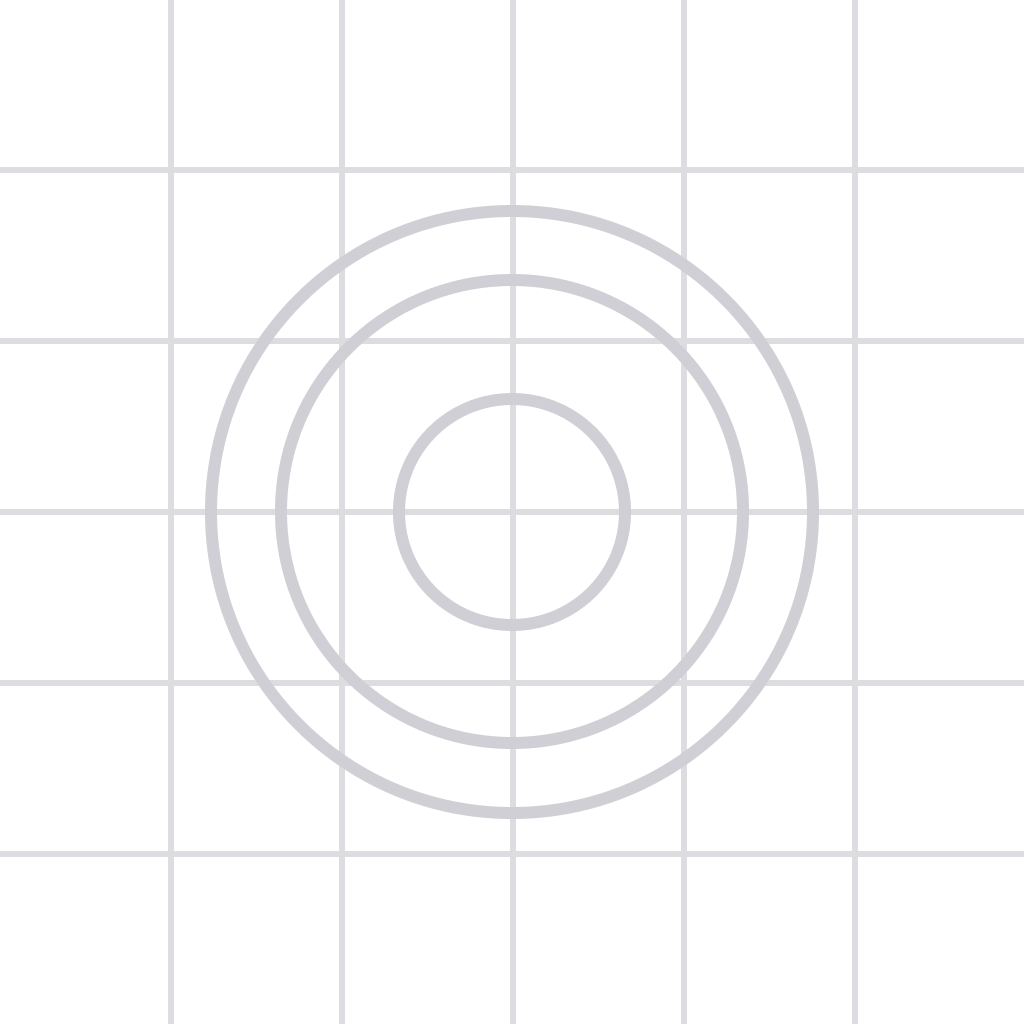
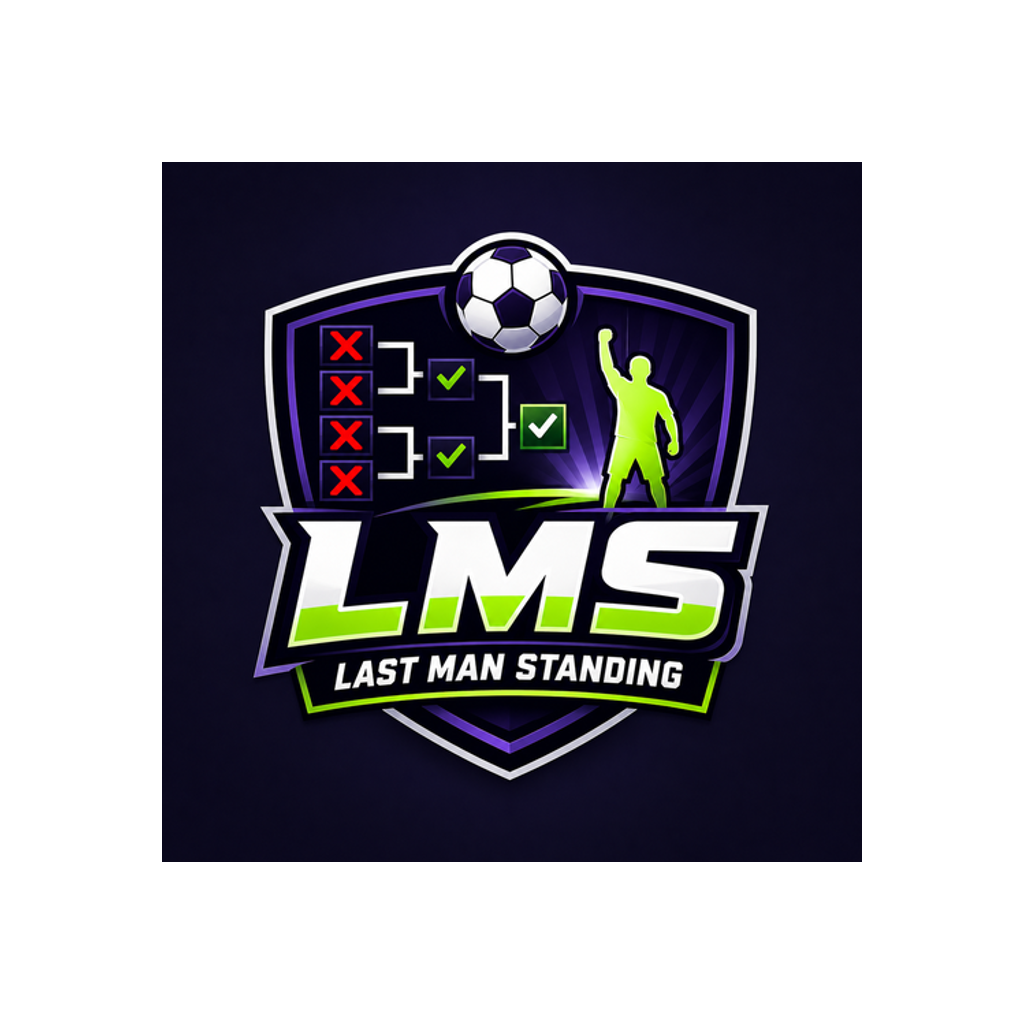
Update Stripe integration and enhance competition management features

diff --git a/src/screens/ClubAdminScreen.tsx b/src/screens/ClubAdminScreen.tsx
@@ -3,8 +3,8 @@ import Slider from '@react-native-community/slider';
 import { useMutation, useQuery, useQueryClient } from '@tanstack/react-query';
 import { useRouter } from 'expo-router';
 import * as ImagePicker from 'expo-image-picker';
-import { useEffect, useMemo, useState } from 'react';
-import { Image, Linking, Modal, RefreshControl, ScrollView, Share, StyleSheet, Text, TextInput, TouchableOpacity, View } from 'react-native';
+import { useEffect, useMemo, useRef, useState } from 'react';
+import { AppState, Image, Linking, Modal, RefreshControl, ScrollView, Share, StyleSheet, Text, TextInput, TouchableOpacity, View } from 'react-native';
 import { SafeAreaView } from 'react-native-safe-area-context';
 import { api } from '../api/client';
 import type { Club, Competition, Participant } from '../types';
@@ -123,6 +123,7 @@ export default function ClubAdminScreen() {
   const [mobileActionsOpen, setMobileActionsOpen] = useState(false);
   const [checklistOpen, setChecklistOpen] = useState(false);
   const [stripeOpen, setStripeOpen] = useState(false);
+  const stripeOnboardingPendingRef = useRef(false);
   const [showCompetitionModal, setShowCompetitionModal] = useState(false);
   const [showStartDatePicker, setShowStartDatePicker] = useState(false);
   const [confirmDialog, setConfirmDialog] = useState<ConfirmDialogState>(null);
@@ -142,6 +143,17 @@ export default function ClubAdminScreen() {
     queryKey: ['club-admin', 'stripe-connect-status'],
     queryFn: async () => (await api.get<StripeConnectStatus>('/club-admin/my-club/stripe/connect/status')).data,
   });
+
+  useEffect(() => {
+    const subscription = AppState.addEventListener('change', (state) => {
+      if (state === 'active' && stripeOnboardingPendingRef.current) {
+        stripeOnboardingPendingRef.current = false;
+        void stripeStatusQuery.refetch();
+        setOpStatus({ tone: 'info', message: 'Stripe status refreshed. If setup still shows incomplete, continue onboarding in Stripe and complete all required business details.' });
+      }
+    });
+    return () => subscription.remove();
+  }, [stripeStatusQuery.refetch]);
 
   const adminSearchQueryResult = useQuery({
     queryKey: ['club-admin', 'admin-search', adminSearchQuery],
@@ -387,10 +399,16 @@ export default function ClubAdminScreen() {
 
 
   const startStripeConnectMutation = useMutation({
-    mutationFn: async () => (await api.post<{ url?: string }>('/club-admin/my-club/stripe/connect/start')).data,
+    mutationFn: async () => (await api.post<{ onboardingUrl?: string; url?: string }>('/club-admin/my-club/stripe/connect/start')).data,
     onSuccess: async (data) => {
-      if (data?.url) await Linking.openURL(data.url);
-      await stripeStatusQuery.refetch();
+      const onboardingUrl = data?.onboardingUrl ?? data?.url;
+      if (!onboardingUrl) {
+        setOpStatus({ tone: 'error', message: 'Stripe onboarding URL was not returned.' });
+        return;
+      }
+      stripeOnboardingPendingRef.current = true;
+      setOpStatus({ tone: 'info', message: 'Complete the Stripe onboarding steps in the browser, then return to the app. Status will refresh automatically.' });
+      await Linking.openURL(onboardingUrl);
     },
     onError: (e: any) => setOpStatus({ tone: 'error', message: getApiMessage(e, 'Failed to start Stripe onboarding.') }),
   });
@@ -563,11 +581,13 @@ export default function ClubAdminScreen() {
                 </TouchableOpacity>
               </View>
               <View style={styles.stripeInfoBox}><Text style={styles.stripeInfoLabel}>Account</Text><Text style={styles.stripeInfoValue}>{stripeStatus?.stripeAccountId ?? 'Not connected'}</Text></View>
+              {!stripeReady ? <View style={styles.stripeSetupNote}><Text style={styles.stripeSetupNoteText}>Setup is not complete until Stripe shows onboarding complete, charges on, and payouts on. Tap Continue onboarding and finish the required Stripe business details.</Text></View> : null}
               <View style={styles.stripeStatusRow}>
                 <View style={[styles.stripeChip, stripeStatus?.onboardingComplete ? styles.stripeChipGood : styles.stripeChipWarn]}><Text style={styles.stripeChipText}>Onboarding: {stripeStatus?.onboardingComplete ? 'Complete' : 'Incomplete'}</Text></View>
                 <View style={[styles.stripeChip, stripeStatus?.chargesEnabled ? styles.stripeChipGood : styles.stripeChipWarn]}><Text style={styles.stripeChipText}>Charges: {stripeStatus?.chargesEnabled ? 'On' : 'Off'}</Text></View>
                 <View style={[styles.stripeChip, stripeStatus?.payoutsEnabled ? styles.stripeChipGood : styles.stripeChipWarn]}><Text style={styles.stripeChipText}>Payouts: {stripeStatus?.payoutsEnabled ? 'On' : 'Off'}</Text></View>
               </View>
+              <View style={styles.stripeFeeNote}><Text style={styles.stripeFeeNoteText}>Stripe shows the exact processing fee after a payment succeeds, under the payment's balance transaction. The app shows an estimate before payment so entrants know the expected charge/net amount upfront.</Text></View>
             </View>
           ) : null}
         </Card>
@@ -1229,11 +1249,15 @@ const styles = StyleSheet.create({
   stripeInfoBox: { borderWidth: 1, borderColor: '#334155', backgroundColor: '#0b1220', borderRadius: 10, paddingHorizontal: 10, paddingVertical: 8, marginBottom: 8 },
   stripeInfoLabel: { color: '#94a3b8', fontSize: 10, textTransform: 'uppercase', letterSpacing: 0.7 },
   stripeInfoValue: { color: '#e2e8f0', fontSize: 12, fontWeight: '700', marginTop: 3 },
+  stripeSetupNote: { borderWidth: 1, borderColor: '#f59e0b55', backgroundColor: '#f59e0b1a', borderRadius: 10, paddingHorizontal: 10, paddingVertical: 8, marginBottom: 8 },
+  stripeSetupNoteText: { color: '#fde68a', fontSize: 11, fontWeight: '800', lineHeight: 16 },
   stripeStatusRow: { flexDirection: 'row', flexWrap: 'wrap', gap: 6 },
   stripeChip: { borderWidth: 1, borderRadius: 999, paddingHorizontal: 9, paddingVertical: 5 },
   stripeChipGood: { borderColor: '#22c55e55', backgroundColor: '#22c55e22' },
   stripeChipWarn: { borderColor: '#f59e0b55', backgroundColor: '#f59e0b22' },
   stripeChipText: { color: '#e2e8f0', fontSize: 11, fontWeight: '700' },
+  stripeFeeNote: { borderWidth: 1, borderColor: '#38bdf855', backgroundColor: '#0ea5e91a', borderRadius: 10, paddingHorizontal: 10, paddingVertical: 8, marginTop: 8 },
+  stripeFeeNoteText: { color: '#bae6fd', fontSize: 11, fontWeight: '700', lineHeight: 16 },
   webCardHeader: { flexDirection: 'row', alignItems: 'flex-start', justifyContent: 'space-between', gap: 10 },
   webSectionTitle: { color: '#e5e7eb', fontSize: 12, fontWeight: '900', textTransform: 'uppercase', letterSpacing: 1.5 },
   webSectionSub: { color: '#94a3b8', fontSize: 12, lineHeight: 18, marginTop: 5 },

diff --git a/src/screens/CompetitionDetailScreen.tsx b/src/screens/CompetitionDetailScreen.tsx
@@ -230,6 +230,8 @@ export default function CompetitionDetailScreen() {
       }
       queryClient.invalidateQueries({ queryKey: ['competition', id, 'my-status', selectedEntryId] });
       queryClient.invalidateQueries({ queryKey: ['competition', id, 'my-pick'] });
+      queryClient.invalidateQueries({ queryKey: ['competitions-my-details'] });
+      queryClient.invalidateQueries({ queryKey: ['competitions-upcoming'] });
     },
     onError: (_error, _vars, context) => {
       setOptimisticPick(null);
@@ -1113,6 +1115,12 @@ export default function CompetitionDetailScreen() {
         urlScheme: 'lastmanstanding',
       });
 
+      const googlePaySupported = await stripe.isPlatformPaySupported({
+        googlePay: {
+          testEnv: publishableKey.startsWith('pk_test'),
+        },
+      });
+
       const initResult = await stripe.initPaymentSheet({
         merchantDisplayName: 'Last Man Standing',
         paymentIntentClientSecret: intent.clientSecret,
@@ -1159,12 +1167,16 @@ export default function CompetitionDetailScreen() {
           currencyCode: 'EUR',
           testEnv: publishableKey.startsWith('pk_test'),
         },
-        paymentMethodOrder: ['card', 'revolut_pay', 'klarna'],
+        paymentMethodOrder: ['google_pay', 'card', 'revolut_pay', 'klarna'],
         allowsDelayedPaymentMethods: false,
       });
 
       if (initResult.error) {
         throw new Error(initResult.error.message ?? 'Could not initialise the payment form.');
+      }
+
+      if (!googlePaySupported) {
+        setPaymentActionSuccess('Google Pay is not available on this device/build, so Stripe will show the other payment options.');
       }
 
       const paymentResult = await stripe.presentPaymentSheet();

diff --git a/src/screens/CompetitionsScreen.tsx b/src/screens/CompetitionsScreen.tsx
@@ -251,8 +251,8 @@ export default function CompetitionsScreen() {
     return sortCompetitions(rows, (row) => row.competition as CompetitionLike);
   }, [myRows, search, statusFilter, feeFilter, sortBy, startWindow]);
 
-  const mineNeedsAction = filteredMine.filter((row) => row.paymentState === 'AWAITING_PAYMENT' || (row.myStatus === 'ACTIVE' && row.competition.status === 'UPCOMING'));
-  const minePickDue = filteredMine.filter((row) => row.myStatus === 'ACTIVE' && row.paymentState !== 'AWAITING_PAYMENT' && row.competition.status === 'UPCOMING');
+  const mineNeedsAction = filteredMine.filter((row) => row.paymentState === 'AWAITING_PAYMENT' || row.pickRequired === true);
+  const minePickDue = filteredMine.filter((row) => row.pickRequired === true);
   const mineAwaitingPayment = filteredMine.filter((row) => row.paymentState === 'AWAITING_PAYMENT');
   const mineActive = filteredMine.filter((row) => row.myStatus === 'ACTIVE' && row.paymentState !== 'AWAITING_PAYMENT' && row.competition.status === 'ACTIVE');
   const mineUpcoming = filteredMine.filter((row) => row.myStatus === 'ACTIVE' && row.paymentState !== 'AWAITING_PAYMENT' && row.competition.status === 'UPCOMING');
@@ -296,13 +296,13 @@ export default function CompetitionsScreen() {
           priority: 40,
         };
       }
-      if (row.myStatus === 'ACTIVE' && comp.status === 'UPCOMING') {
+      if (row.pickRequired === true) {
         return {
           id: `pick-${baseId}`,
           tone: 'warn' as const,
           label: 'Pick due',
           title: `Pick needed for ${comp.name}`,
-          detail: `Choose your team before the first lock${entrySuffix}.`,
+          detail: `Choose your team before the next lock${entrySuffix}.`,
           competitionId: comp.id,
           priority: 20,
         };

diff --git a/src/screens/MyCompetitionsScreen.tsx b/src/screens/MyCompetitionsScreen.tsx
@@ -11,7 +11,7 @@ import { colors, spacing } from '../theme/tokens';
 type MineFilter = 'ALL' | 'NEEDS_ACTION' | 'UPCOMING' | 'ACTIVE' | 'ELIMINATED' | 'FINISHED';
 
 function needsAction(mc: MyCompetition): boolean {
-  return mc.paymentState === 'AWAITING_PAYMENT' || (mc.competition.status === 'UPCOMING' && mc.myStatus === 'ACTIVE');
+  return mc.paymentState === 'AWAITING_PAYMENT' || mc.pickRequired === true;
 }
 
 function toneForStatus(status: string) {

diff --git a/app/_layout.tsx b/app/_layout.tsx
@@ -26,6 +26,7 @@ export default function RootLayout() {
         <Stack.Screen name="register-club" options={{ title: 'Create Club' }} />
         <Stack.Screen name="faq" options={{ title: 'FAQ' }} />
         <Stack.Screen name="contact" options={{ title: 'Contact Us' }} />
+        <Stack.Screen name="stripe-connect/return" options={{ title: 'Stripe Connect' }} />
         <Stack.Screen name="(tabs)" options={{ headerShown: false }} />
         <Stack.Screen name="competitions/[id]" options={{ title: 'Competition' }} />
         <Stack.Screen name="competitions/[id]/pick" options={{ title: 'Make Pick' }} />

diff --git a/src/types/index.ts b/src/types/index.ts
@@ -69,6 +69,7 @@ export interface MyCompetition {
   entryNumber?: number;
   myStatus: 'ACTIVE' | 'ELIMINATED' | 'WINNER';
   paymentState?: 'NOT_REQUIRED' | 'AWAITING_PAYMENT' | 'PAID';
+  pickRequired?: boolean;
   eliminatedWeek: number | null;
   joinedAt: string;
 }